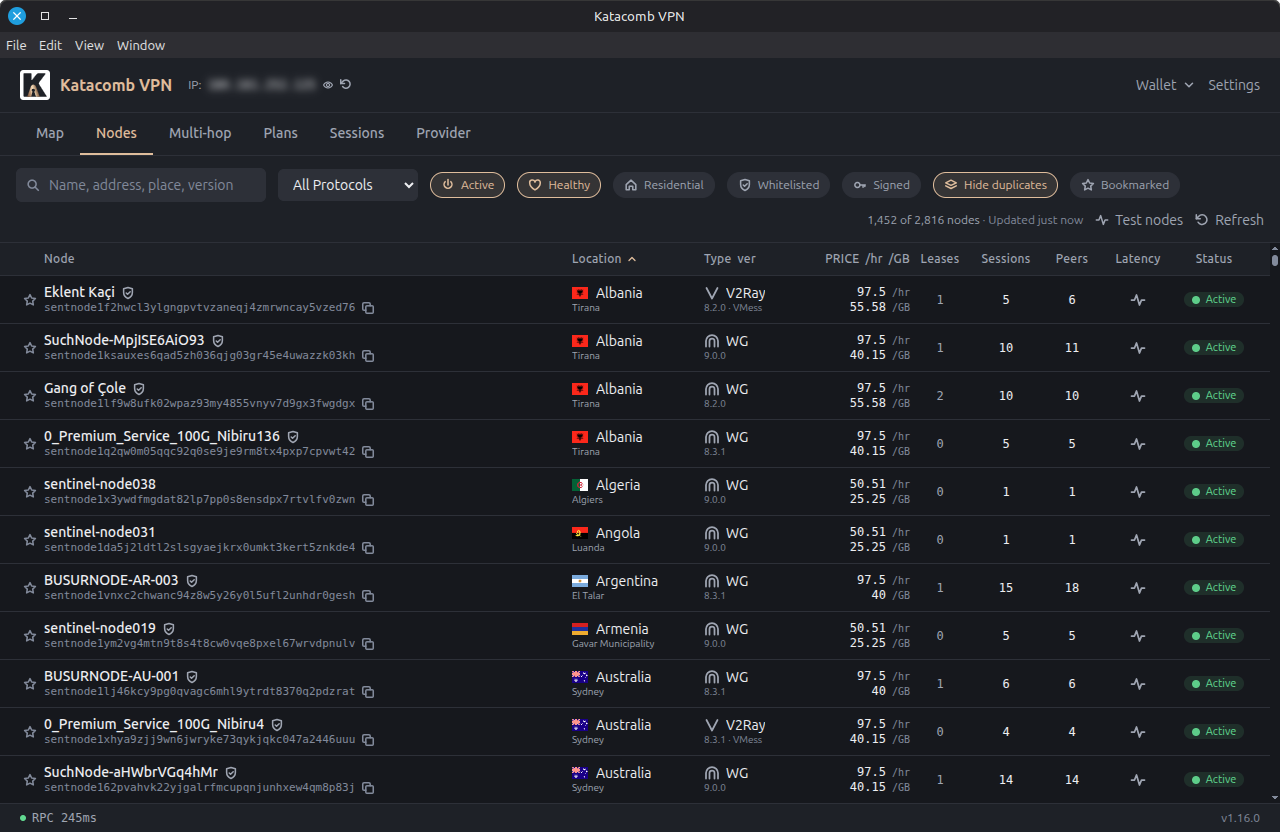
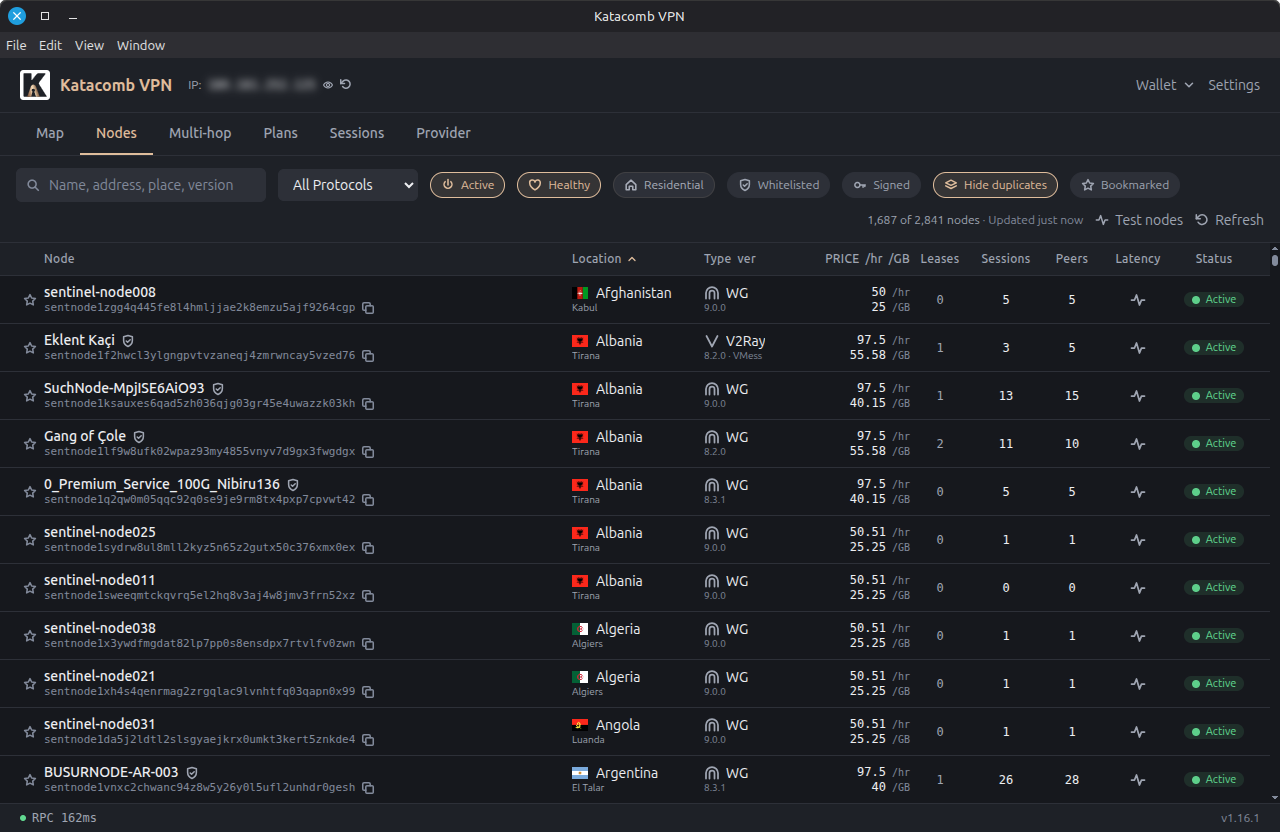
Bump Katacomb VPN fallback to v1.16.1 and update screenshots
Lay the four screenshots out as a 2x2 grid.

diff --git a/plugins/katacomb-release/index.js b/plugins/katacomb-release/index.js
@@ -4,21 +4,21 @@ const RELEASES = `https://github.com/${REPO}/releases`;
 // Used when the GitHub API can't be reached, so an offline or rate-limited
 // build still produces a working page instead of failing.
 const FALLBACK = {
-  version: '1.16.0',
+  version: '1.16.1',
   stale: true,
-  releaseUrl: `${RELEASES}/tag/v1.16.0`,
+  releaseUrl: `${RELEASES}/tag/v1.16.1`,
   deb: {
-    name: 'katacomb-vpn_1.16.0_amd64.deb',
-    url: `${RELEASES}/download/v1.16.0/katacomb-vpn_1.16.0_amd64.deb`,
+    name: 'katacomb-vpn_1.16.1_amd64.deb',
+    url: `${RELEASES}/download/v1.16.1/katacomb-vpn_1.16.1_amd64.deb`,
     size: '113 MB',
   },
   appimage: {
-    name: 'katacomb-vpn-1.16.0.AppImage',
-    url: `${RELEASES}/download/v1.16.0/katacomb-vpn-1.16.0.AppImage`,
+    name: 'katacomb-vpn-1.16.1.AppImage',
+    url: `${RELEASES}/download/v1.16.1/katacomb-vpn-1.16.1.AppImage`,
     size: '132 MB',
   },
-  checksums: `${RELEASES}/download/v1.16.0/SHA256SUMS`,
-  signature: `${RELEASES}/download/v1.16.0/SHA256SUMS.asc`,
+  checksums: `${RELEASES}/download/v1.16.1/SHA256SUMS`,
+  signature: `${RELEASES}/download/v1.16.1/SHA256SUMS.asc`,
 };
 
 const megabytes = (bytes) =>

diff --git a/src/pages/katacomb-vpn.jsx b/src/pages/katacomb-vpn.jsx
@@ -35,14 +35,12 @@ const SHOTS = [
     alt: 'Katacomb VPN welcome screen: a dotted world map of nodes beside a three-step Get started panel',
     caption:
       'Welcome: create or import a wallet, add P2P, then pick a node and connect.',
-    wide: true,
   },
   {
     src: 'img/katacomb/1.png',
     alt: 'Katacomb VPN map view: a 3D globe beside a country list with node counts',
     caption:
       'Map: a 3D globe with per-country node counts, and the live network size in the corner.',
-    wide: true,
   },
   {
     src: 'img/katacomb/2.png',
